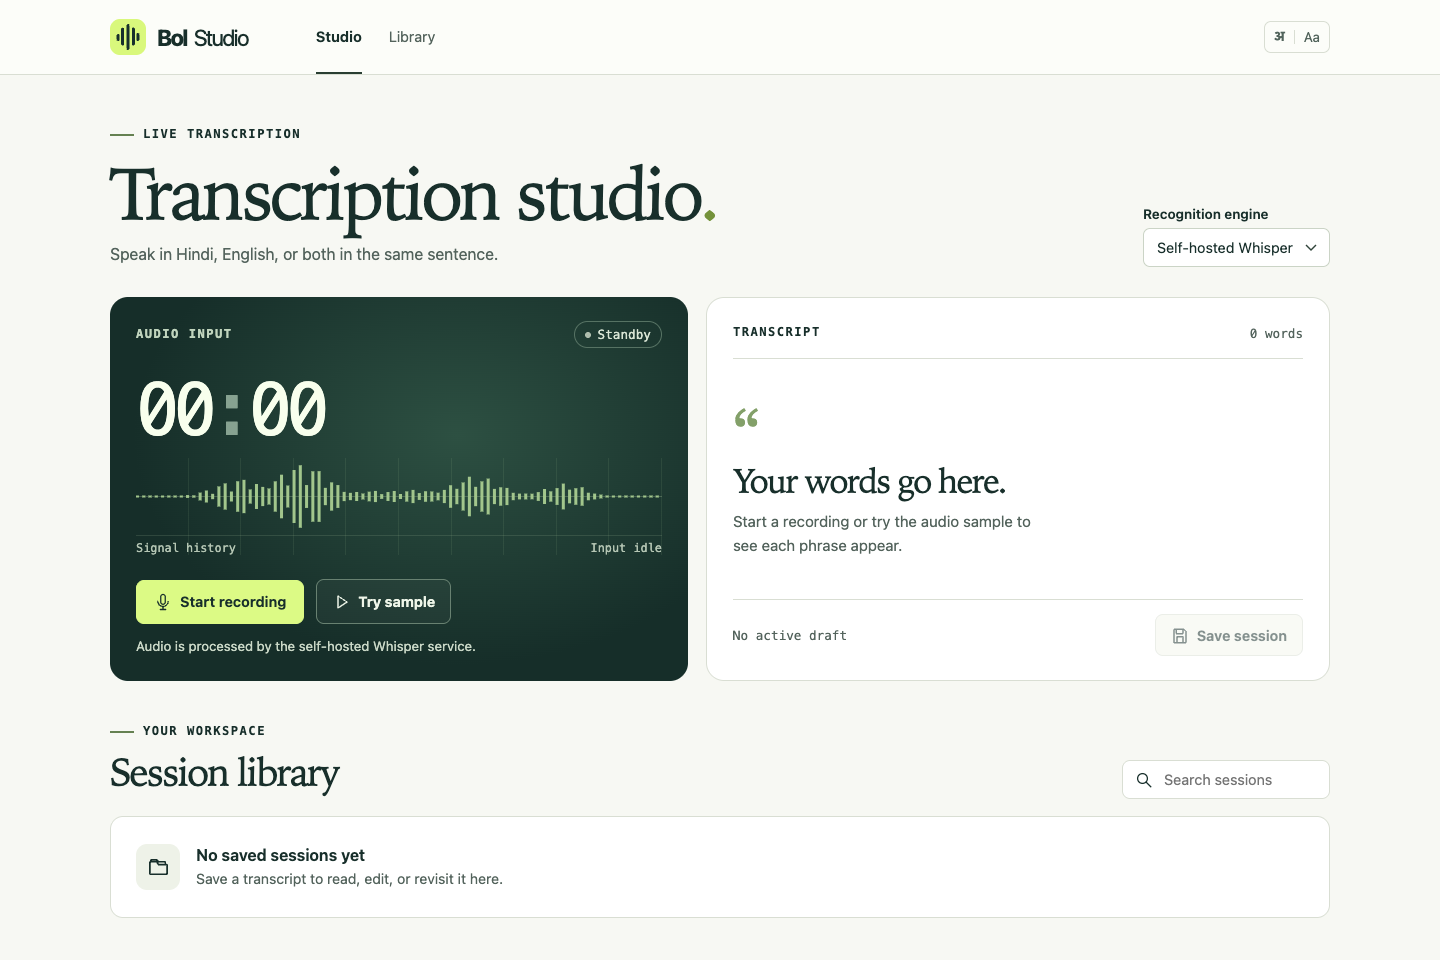
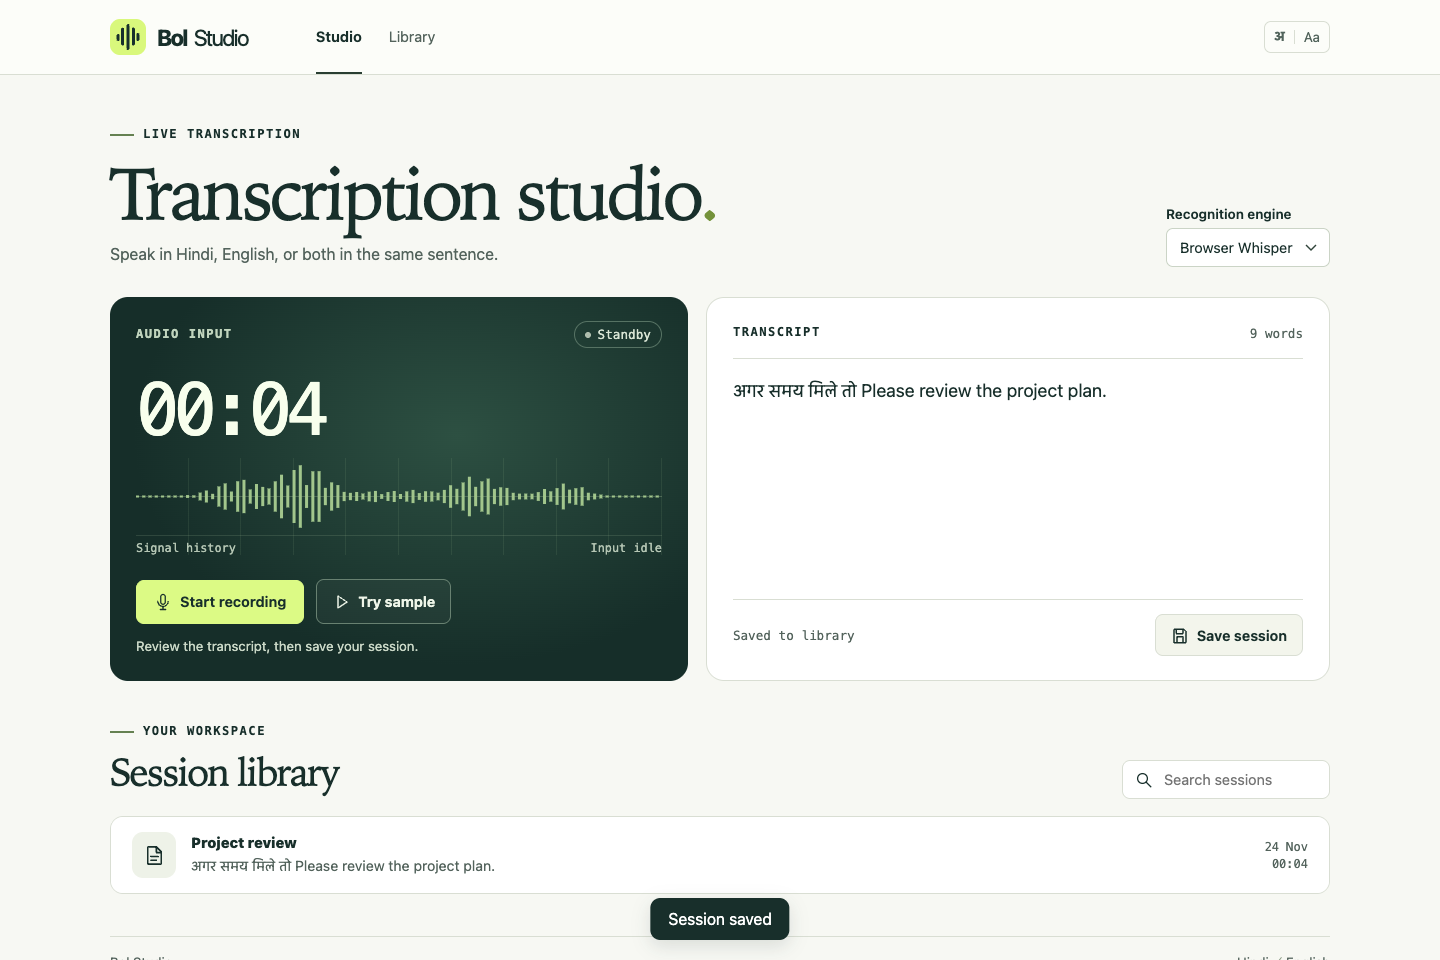
Document verified public demo and production checks

diff --git a/docs/walkthrough.md b/docs/walkthrough.md
@@ -30,7 +30,7 @@ Save the result as **Project review**, fix one word, reload, search for the corr
 | Browser microphone pipeline | Chrome’s simulated microphone produced mixed-script text before Stop. One run spelled अगर as आगर. This exercised Web Audio capture and real inference. Human microphone acoustics were outside this check. |
 | History | Browser tests created, opened, edited, searched, reloaded, and deleted a session. Cancelling deletion preserved it. |
 | Error and concurrency handling | Five automated tests cover Unicode storage, owner isolation, idempotence, stale writes, invalid input, silence and segmentation. |
-| Hosting | The cloud deployment reported success. Its D1 binding contained the transcripts table. The packaged Worker passed CRUD against local D1. Anonymous cloud access returned HTTP 401 under owner-only sharing. |
+| Hosting | The cloud deployment reported success. Its D1 binding contained the transcripts table. The packaged Worker passed CRUD against local D1. The public homepage returned HTTP 200. A fresh, signed-out Chrome profile downloaded the weights, transcribed the sample, and completed CRUD after reloading. A new anonymous workspace successfully created, read, edited, listed and deleted a temporary session in production D1. |
 
 To reproduce the continuous-utterance check with the self-hosted service running:
 

diff --git a/README.md b/README.md
@@ -4,7 +4,7 @@ A live Hindi–English transcription desk. Speak a sentence, watch phrases arriv
 
 ![Bol Studio recording desk and session library](docs/studio.png)
 
-The [hosted demo](https://bol-studio-hinglish.murari-s536553.chatgpt.site) currently requires owner access. Run the app locally to try it from another account.
+**[Open the public demo](https://bol-studio-hinglish.murari-s536553.chatgpt.site)** and choose **Try sample**. The first run downloads about 250 MB of model weights. Saved sessions belong to the current browser workspace.
 
 ## Start in one command
 
